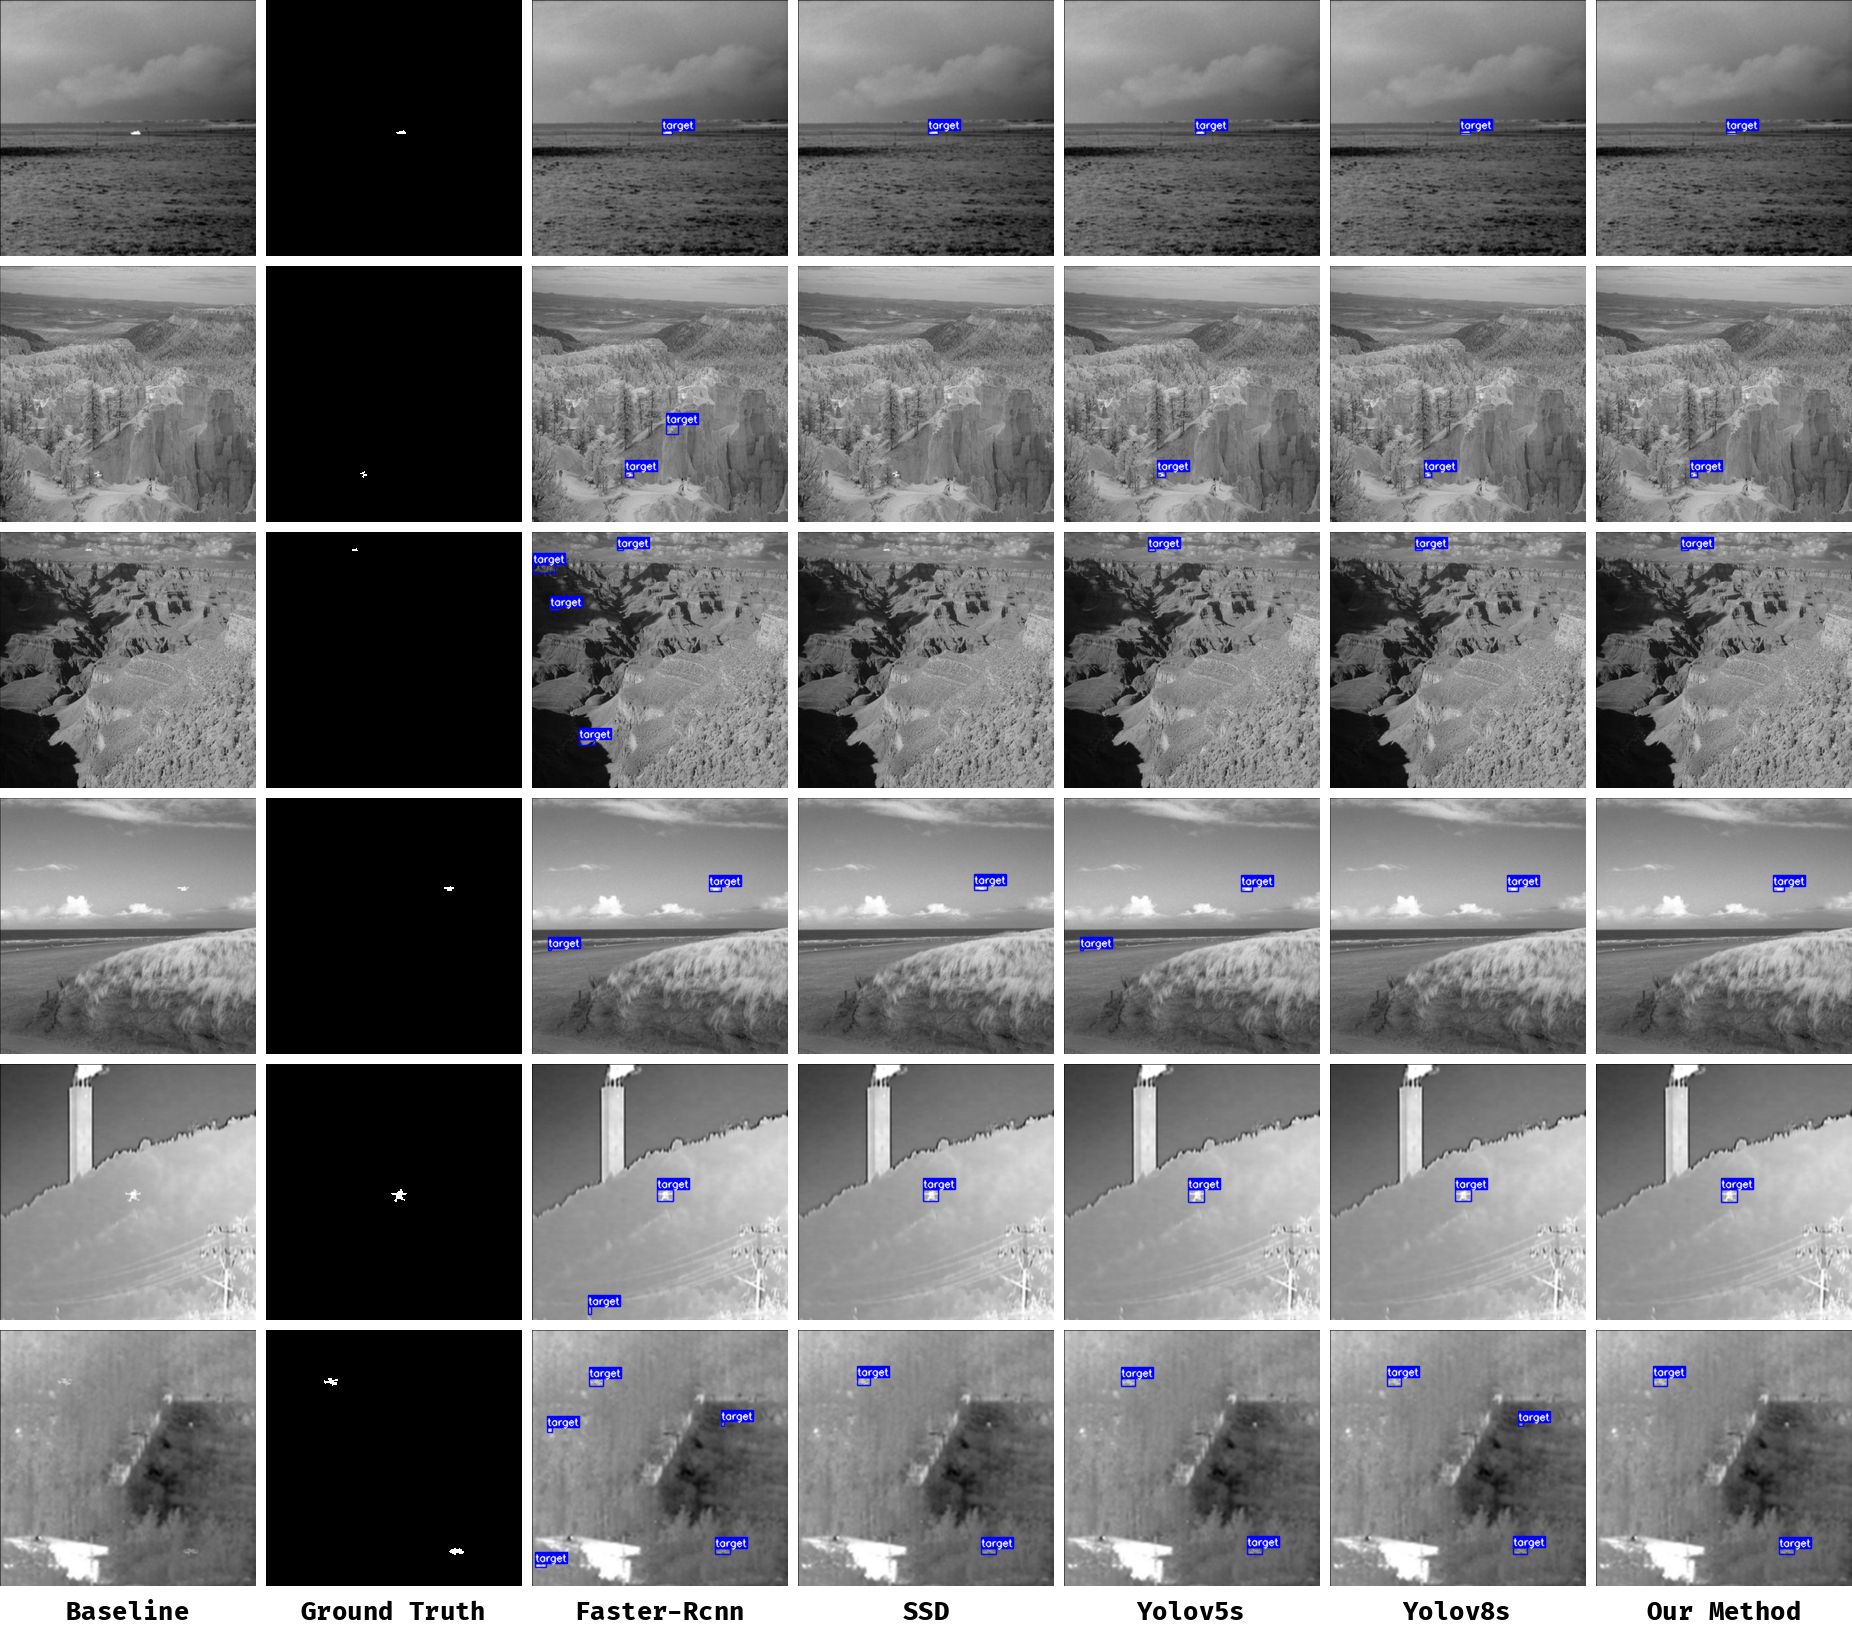
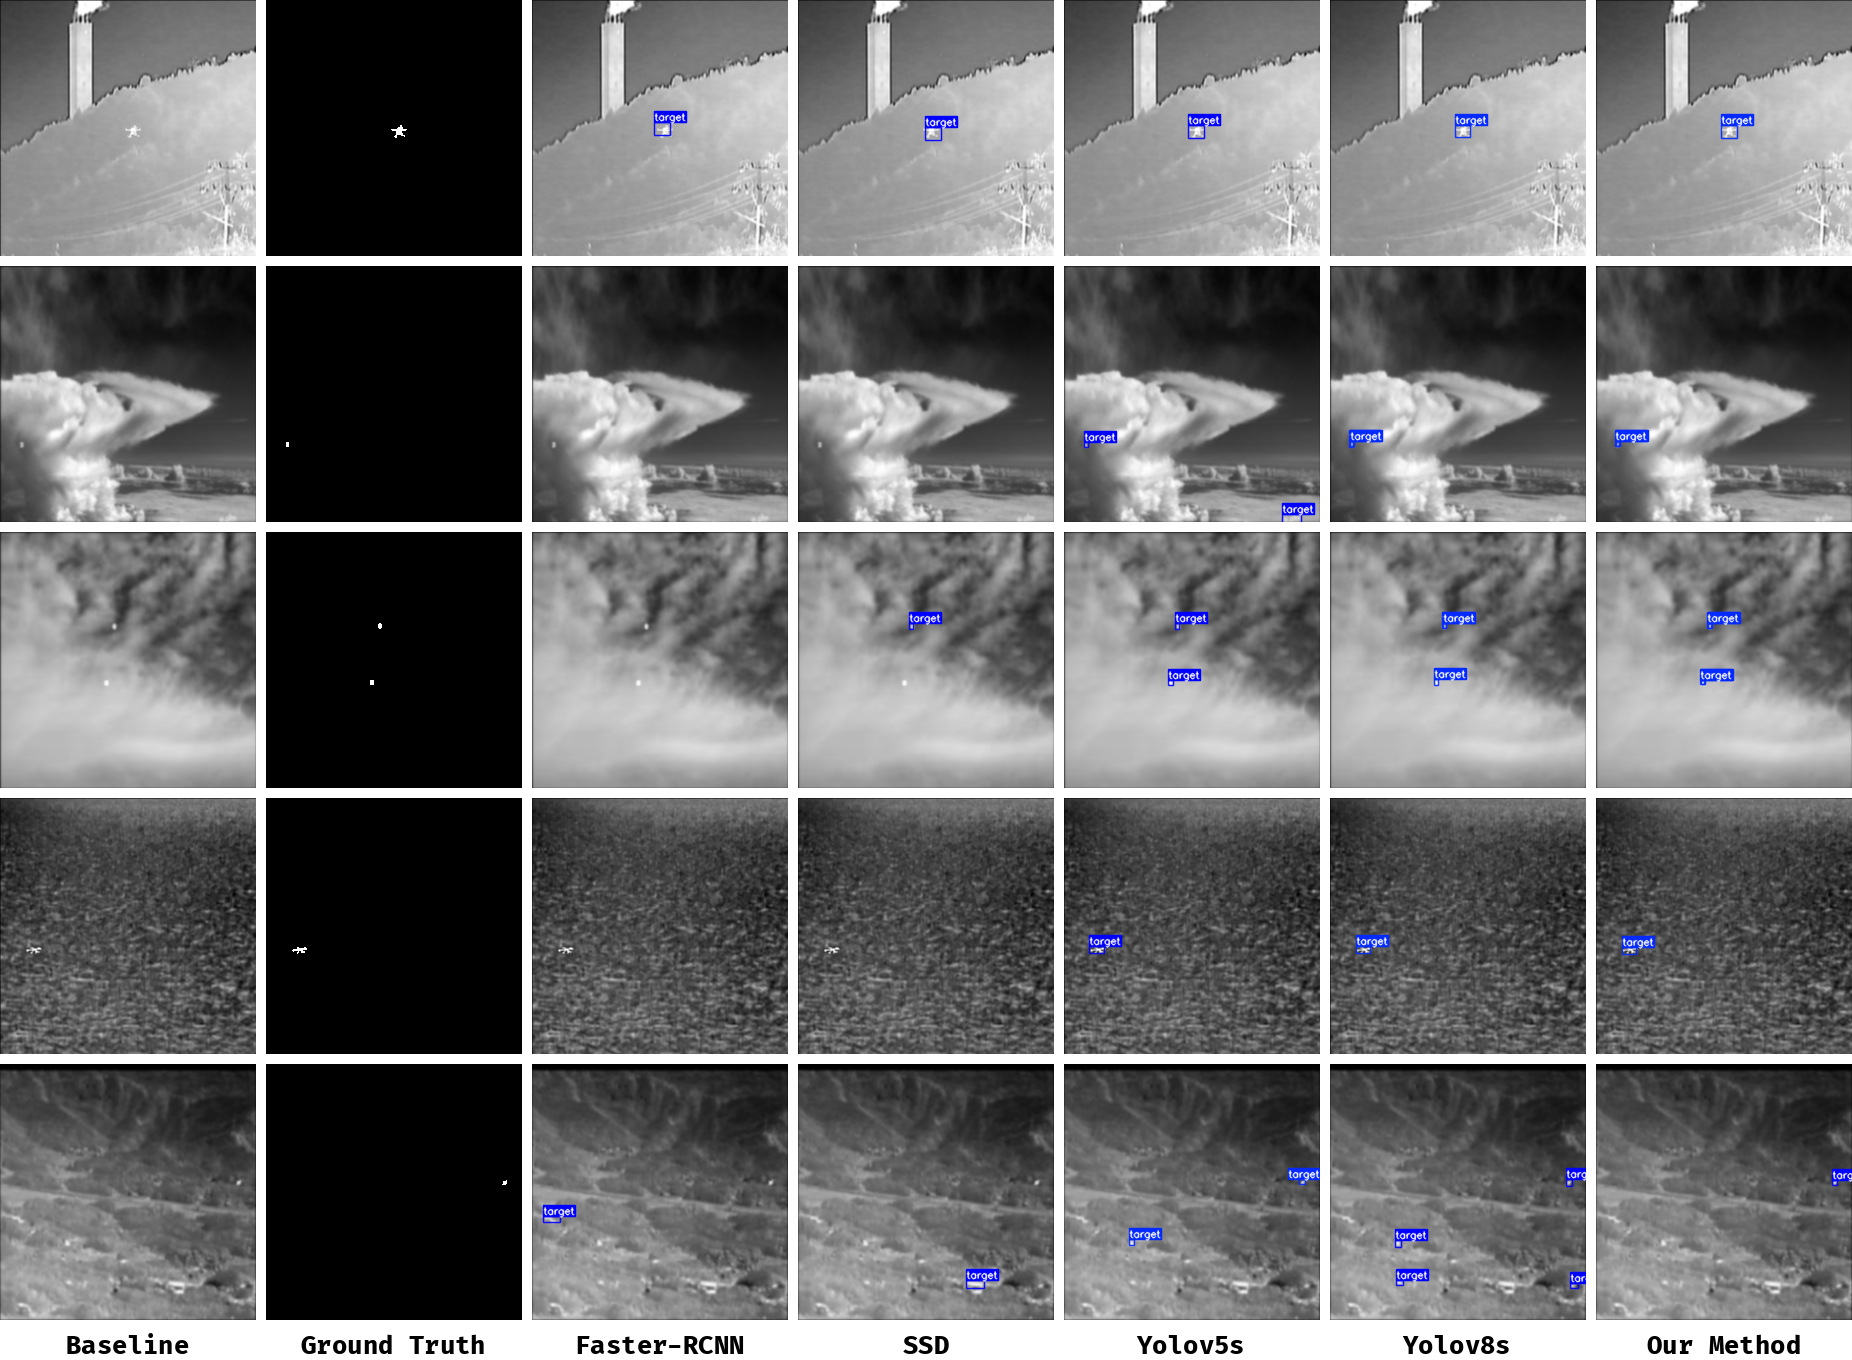
update for li-paper

diff --git a/stitcher.py b/stitcher.py
@@ -90,30 +90,32 @@ if __name__ == "__main__":
     stitcher = ImageStitcher()
     
     # 设置网格布局（5 行 3 列），并设置间距
-    stitcher.set(h=6, w=7, horizontal_spacing=10, vertical_spacing=10)
+    stitcher.set(h=5, w=7, horizontal_spacing=10, vertical_spacing=10)
 
     # 指定图片路径
-    # image_folder = "images_folder"  # 替换为你的图片文件夹路径
+    # image_folder = "."  # 替换为你的图片文件夹路径
     # image_files = [os.path.join(image_folder, f) for f in os.listdir(image_folder) if f.endswith((".png", ".jpg"))]
-    # image_files = ["./origin/001250.png", "./mask/001250.png", "./faster/001250.png", "./ssd/001250.png", "./v5/001250.png", "./v8/001250.png", "./v8-improve/001250.png",
-    #                "./origin/000623.png", "./mask/000623.png", "./faster/000623.png", "./ssd/000623.png", "./v5/000623.png", "./v8/000623.png", "./v8-improve/000623.png",
-    #                "./origin/000672.png", "./mask/000672.png", "./faster/000672.png", "./ssd/000672.png", "./v5/000672.png", "./v8/000672.png", "./v8-improve/000672.png",
-    #                "./origin/000600.png", "./mask/000600.png", "./faster/000600.png", "./ssd/000600.png", "./v5/000600.png", "./v8/000600.png", "./v8-improve/000600.png",
-    #                "./origin/000527.png", "./mask/000527.png", "./faster/000527.png", "./ssd/000527.png", "./v5/000527.png", "./v8/000527.png", "./v8-improve/000527.png",
-    #               ]
-    mask_dir_path = "/home/syndra/dataset/NUDT-SIRST/masks/"
-    origin_dir_path = "/home/syndra/dataset/NUDT-SIRST/dataset/test/images/"
-    result_path = "./box_result/"
-    image_files = [
-        origin_dir_path + "000613.png", mask_dir_path + "000613.png", result_path + "faster000613.png", result_path + "ssd000613.png", result_path + "v5000613.png", result_path + "v8000613.png", result_path + "our000613.png",
-        origin_dir_path + "001298.png", mask_dir_path + "001298.png", result_path + "faster001298.png", result_path + "ssd001298.png", result_path + "v5001298.png", result_path + "v8001298.png", result_path + "our001298.png",
-        origin_dir_path + "001292.png", mask_dir_path + "001292.png", result_path + "faster001292.png", result_path + "ssd001292.png", result_path + "v5001292.png", result_path + "v8001292.png", result_path + "our001292.png",
-        origin_dir_path + "001280.png", mask_dir_path + "001280.png", result_path + "faster001280.png", result_path + "ssd001280.png", result_path + "v5001280.png", result_path + "v8001280.png", result_path + "our001280.png",
-        origin_dir_path + "001250.png", mask_dir_path + "001250.png", result_path + "faster001250.png", result_path + "ssd001250.png", result_path + "v5001250.png", result_path + "v8001250.png", result_path + "our001250.png",
-        origin_dir_path + "000489.png", mask_dir_path + "000489.png", result_path + "faster000489.png", result_path + "ssd000489.png", result_path + "v5000489.png", result_path + "v8000489.png", result_path + "our000489.png",
-    ]
-    # 添加文本
-    text_labels = ["Baseline", "Ground Truth", "Faster-Rcnn", "SSD", "Yolov5s", "Yolov8s", "Our Method"]
+    image_files = ["./origin/001250.png", "./mask/001250.png", "./faster/001250.png", "./ssd/001250.png", "./v5/001250.png", "./v8/001250.png", "./v8-improve/001250.png",
+                   "./origin/000623.png", "./mask/000623.png", "./faster/000623.png", "./ssd/000623.png", "./v5/000623.png", "./v8/000623.png", "./v8-improve/000623.png",
+                   "./origin/000672.png", "./mask/000672.png", "./faster/000672.png", "./ssd/000672.png", "./v5/000672.png", "./v8/000672.png", "./v8-improve/000672.png",
+                   "./origin/000600.png", "./mask/000600.png", "./faster/000600.png", "./ssd/000600.png", "./v5/000600.png", "./v8/000600.png", "./v8-improve/000600.png",
+                   "./origin/000527.png", "./mask/000527.png", "./faster/000527.png", "./ssd/000527.png", "./v5/000527.png", "./v8/000527.png", "./v8-improve/000527.png",
+                  ]
+
+    # mask_dir_path = "/home/syndra/dataset/NUDT-SIRST/masks/"
+    # origin_dir_path = "/home/syndra/dataset/NUDT-SIRST/dataset/test/images/"
+    # result_path = "./box_result/"
+    # image_files = [
+    #     origin_dir_path + "000613.png", mask_dir_path + "000613.png", result_path + "faster000613.png", result_path + "ssd000613.png", result_path + "v5000613.png", result_path + "v8000613.png", result_path + "our000613.png",
+    #     origin_dir_path + "001298.png", mask_dir_path + "001298.png", result_path + "faster001298.png", result_path + "ssd001298.png", result_path + "v5001298.png", result_path + "v8001298.png", result_path + "our001298.png",
+    #     origin_dir_path + "001292.png", mask_dir_path + "001292.png", result_path + "faster001292.png", result_path + "ssd001292.png", result_path + "v5001292.png", result_path + "v8001292.png", result_path + "our001292.png",
+    #     origin_dir_path + "001280.png", mask_dir_path + "001280.png", result_path + "faster001280.png", result_path + "ssd001280.png", result_path + "v5001280.png", result_path + "v8001280.png", result_path + "our001280.png",
+    #     origin_dir_path + "001250.png", mask_dir_path + "001250.png", result_path + "faster001250.png", result_path + "ssd001250.png", result_path + "v5001250.png", result_path + "v8001250.png", result_path + "our001250.png",
+    #     origin_dir_path + "000489.png", mask_dir_path + "000489.png", result_path + "faster000489.png", result_path + "ssd000489.png", result_path + "v5000489.png", result_path + "v8000489.png", result_path + "our000489.png",
+    # ]
+    # # 添加文本
+    # text_labels = ["Baseline", "Ground Truth", "Faster-Rcnn", "SSD", "Yolov5s", "Yolov8s", "Our Method"]
+    text_labels = ["Baseline", "Ground Truth", "Faster-RCNN", "SSD", "Yolov5s", "Yolov8s", "Our Method"]
 
     # 调用拼接函数
     stitcher.func(*image_files, text_list=text_labels, output_path="output_grid_image.png")
